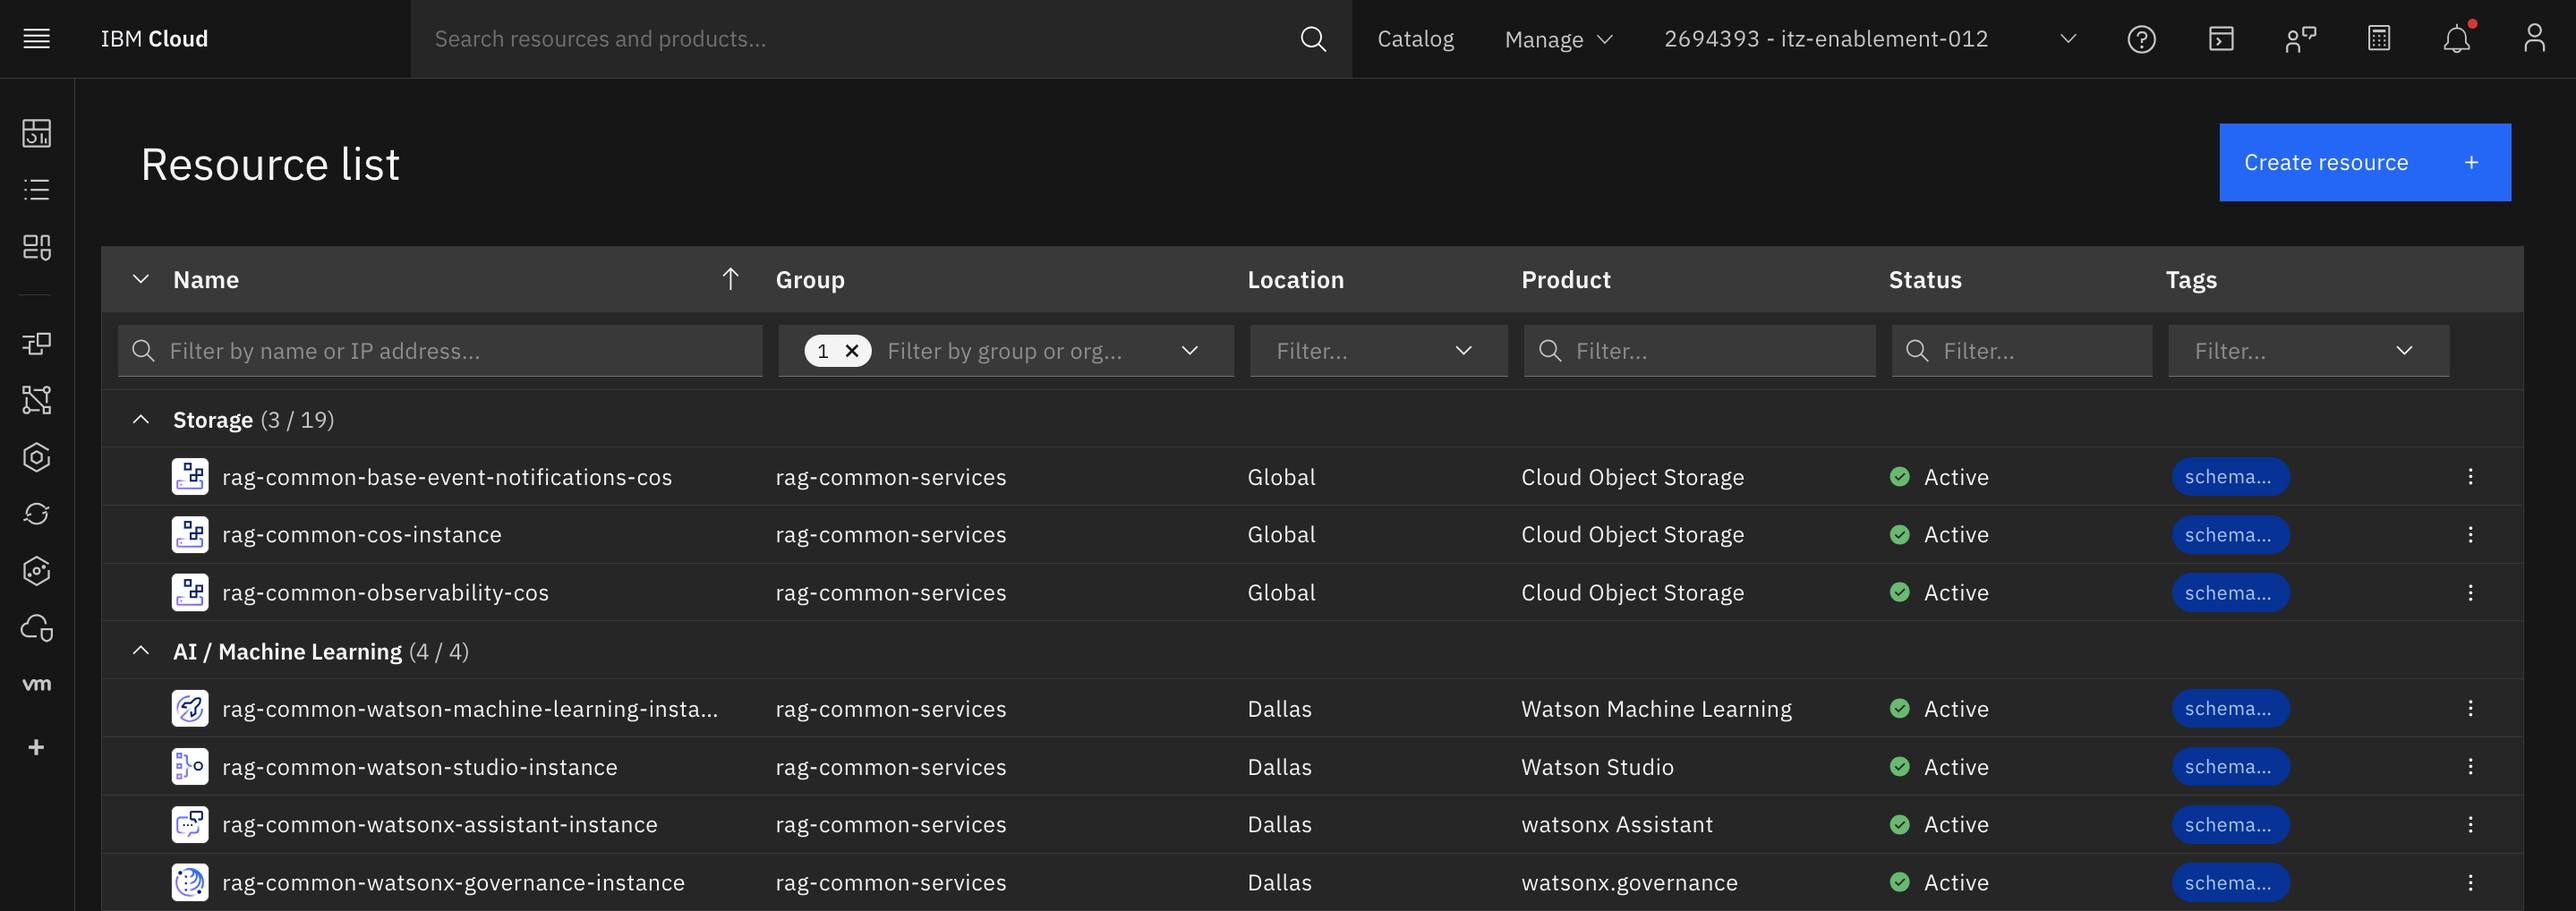
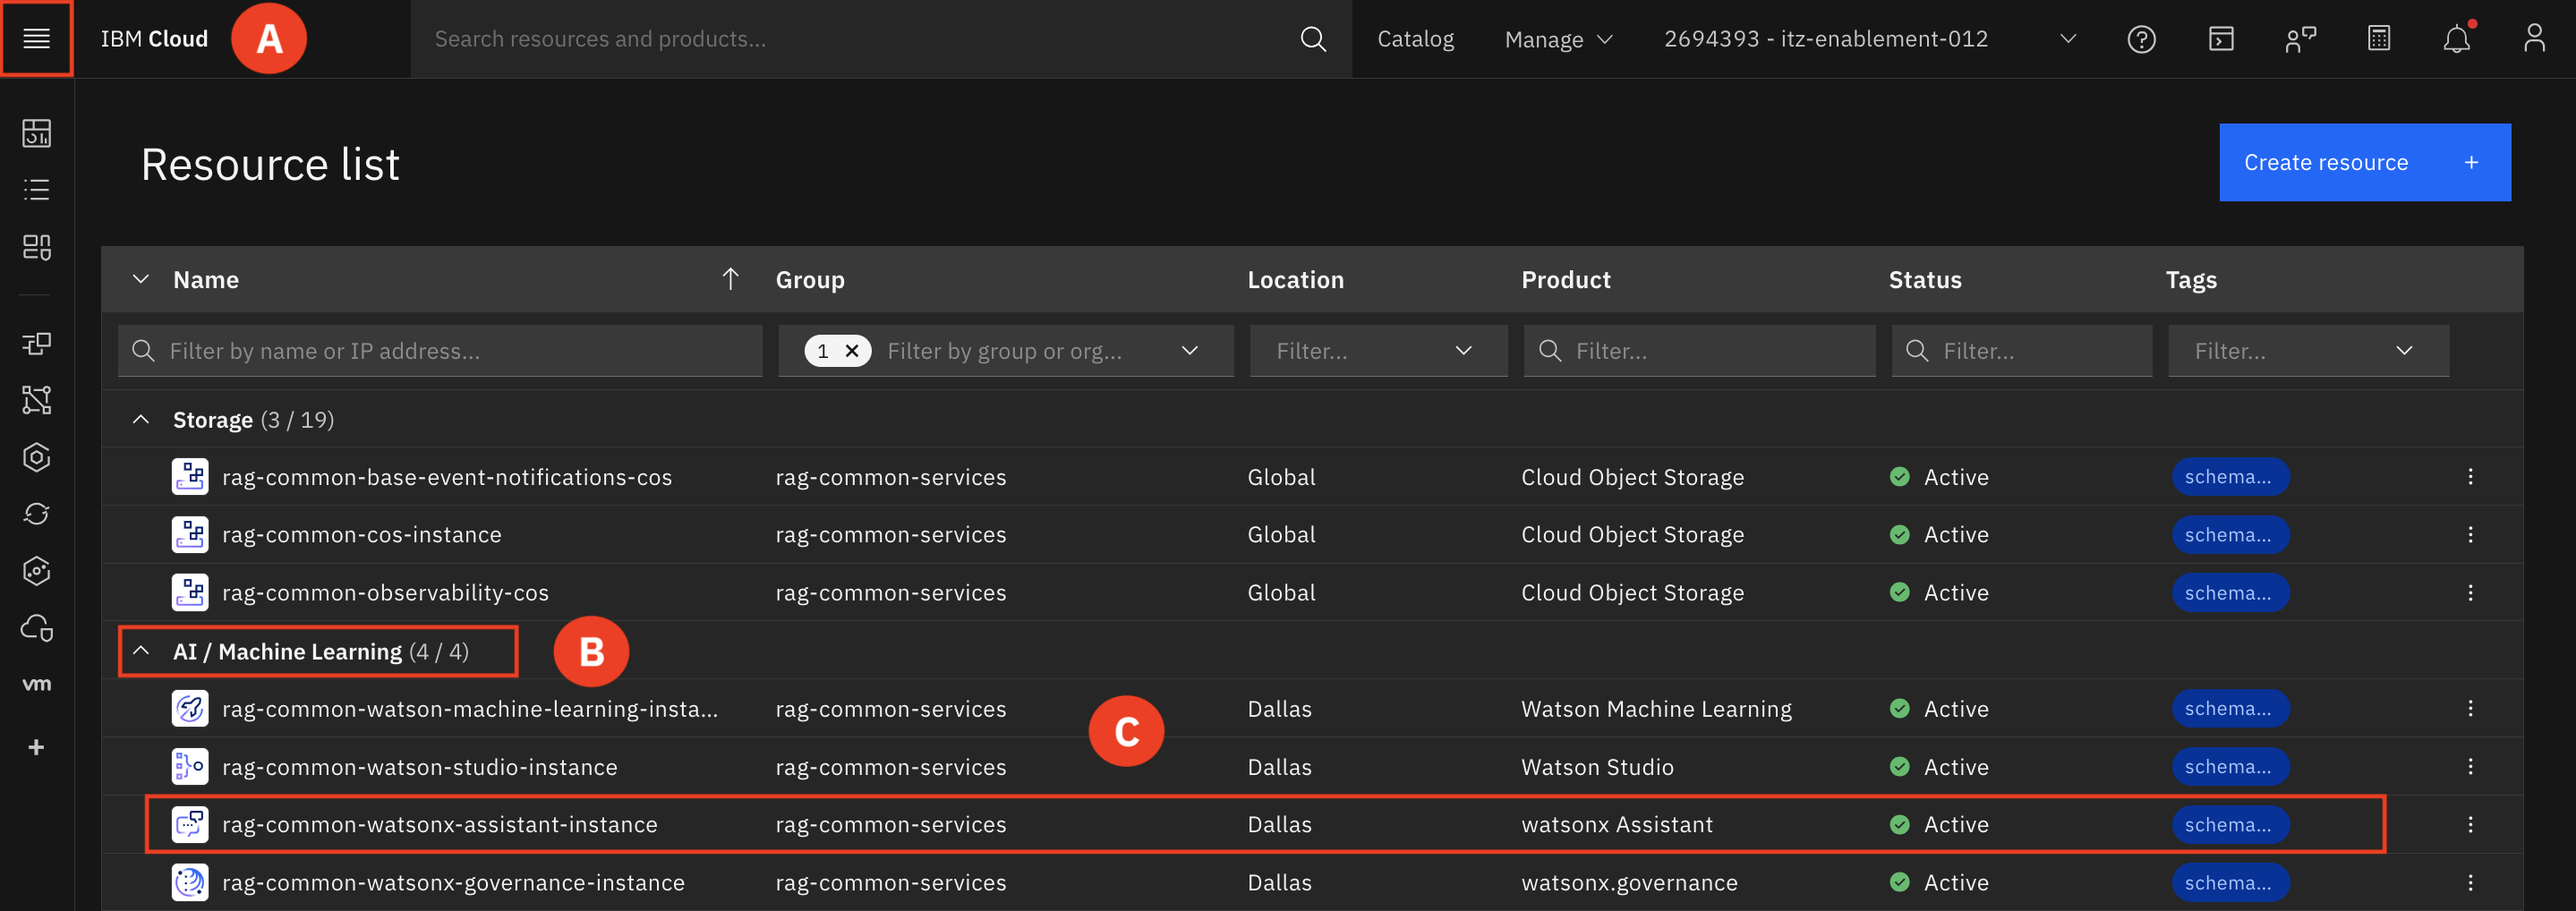
update screenshots

diff --git a/docs/lab/2_2-new-art.md b/docs/lab/2_2-new-art.md
@@ -6,39 +6,41 @@
 
     Select the **rag-common-watsonx-assistant-instance (D)**. 
 
-![alt text](../images/2.2.1.png)
+![alt text](../images/2.2.1-n-da.png)
 
 2. Select **Launch Assistant (A)** 
 
-![alt text](../images/2.2.2.png)
+![alt text](../images/2.2.2-n-da.png)
 
 3. From the **drop menu (A)**, select the **project (B)**
 
-![alt text](../images/2.2.3.png)
+![alt text](../images/2.2.3-n-da.png)
 
 4. On the left-hand side navigation menu, select **Integration (A)**
 
-![alt text](../images/2.2.4.png)
+![alt text](../images/2.2.4-n-da.png)
 
 5. Scroll down till you find the **Extension** section, locate **Search** and select **Open (A)**
 
-![alt text](../images/2.2.5.png)
+![alt text](../images/2.2.5-n-da.png)
 
 6. For the environment select **Draft (A)** and then click **Confirm (B)**
 
-![alt text](../images/2.2.6.png)
+![alt text](../images/2.2.6-n-da.png)
 
 7. Select **Elasticsearch (A)**
 
-![alt text](../images/2.2.7.png)
+![alt text](../images/2.2.7-n-da.png)
 
 8. On the **Settings tab (A)** select ***Upload documents to a new index in your Elasticsearch index (B)***. Click **Save (C)**.
 
-![alt text](../images/2.2.8.png)
+![alt text](../images/2.2.8-n-da.png)
 
 9. Select the **Documents tab (A)** and the click **Upload (B)** to upload the new PDFs.  
 
-![alt text](../images/2.2.9.png)
+![alt text](../images/2.2.9-n-da.png)
+
+![alt text](../images/2.2.10-n-da.png)
 
 10. Once the new documents have been uploaded navigate back to the chatbot tab and ask the questions again and observe the improvement in answers. 
 * What are the different life insurance policies?
